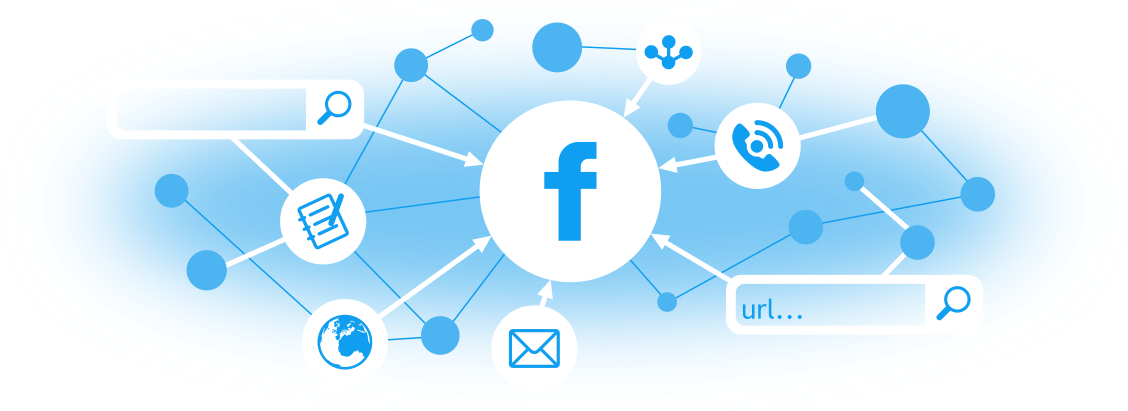
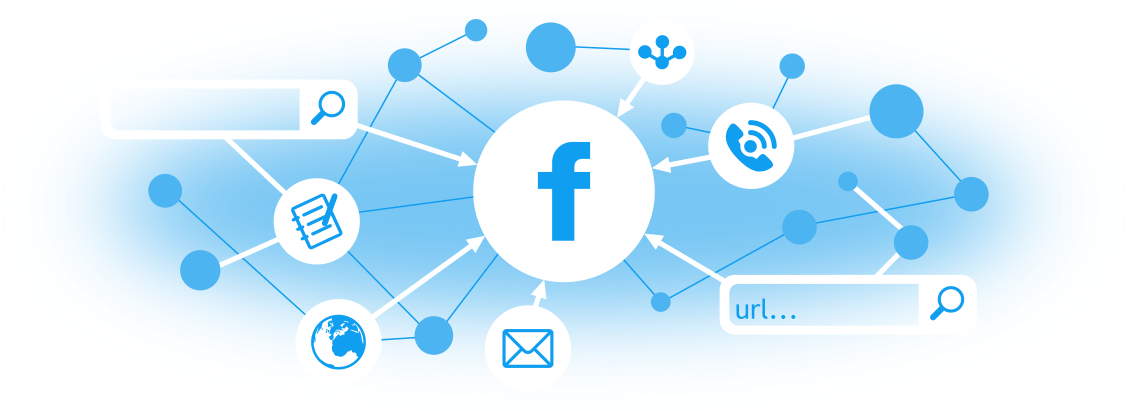
updated images

diff --git a/_layouts/default.html b/_layouts/default.html
@@ -12,7 +12,7 @@
         <meta property="og:title" content="{{ page.title }}" />
         <meta property="og:url" content="{{site.url}}{{ page.url }}" />
         <meta property="og:description" content="{{ page.description }}">
-        <meta property="og:image" content="{{site.url}}{{site.baseurl}}/assets/img/{{ page.image }}">
+        <meta property="og:image" content="{{site.url}}{{site.baseurl}}/assets/img/{{ page.image_sharing }}">
         <meta property="og:type" content="article" />
         <meta property="og:locale" content="it_IT" />
     {% endif %}

diff --git a/_posts/2017-09-14-3-suggerimenti-ottimizzare-pagina-facebook.md b/_posts/2017-09-14-3-suggerimenti-ottimizzare-pagina-facebook.md
@@ -4,6 +4,7 @@ title:  3 Semplici Suggerimenti per Ottimizzare la tua Pagina Facebook
 description: 3 Semplici Suggerimenti per Ottimizzare la tua Pagina Facebook
 date:   2017-09-14 11:10:19 +0200
 image: posts/facebook-tips.png
+image_sharing: posts/facebook-tips-sharing.png
 categories: facebook social marketing
 comments: true
 ---
